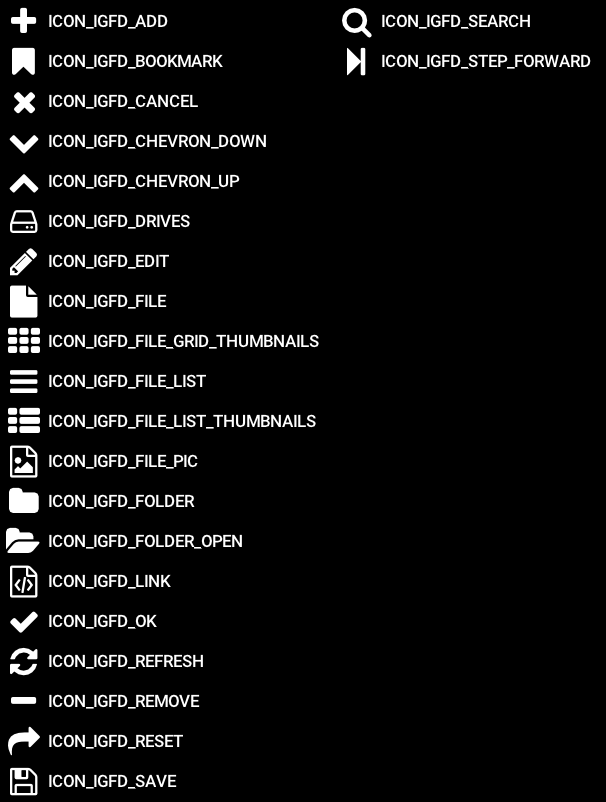
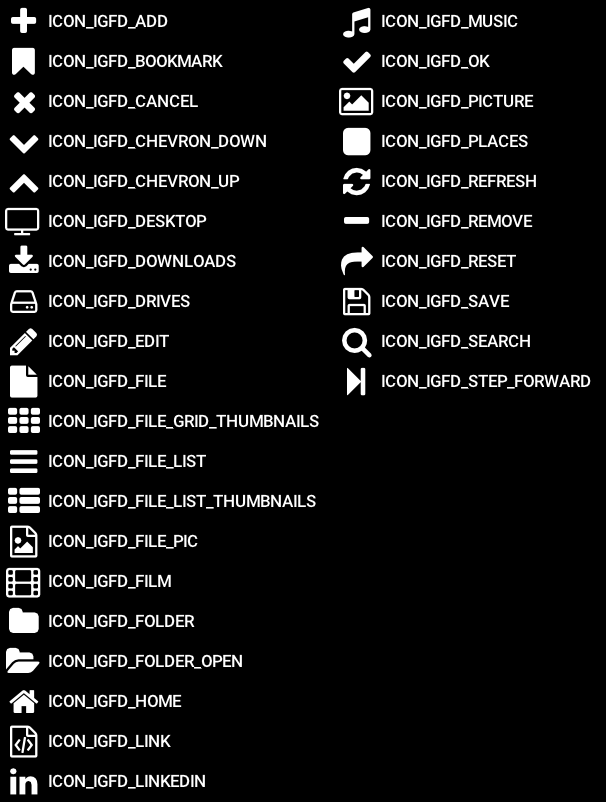
[ADD] : add a Places System who is extending the current Bookamarks mode to know places, quick access, favorites, devices, etc..

diff --git a/CustomFont.cpp b/CustomFont.cpp
@@ -1,33 +1,44 @@
 #include "CustomFont.h"
 
-static const char IGFD_compressed_data_base85[3950+1] = 
-    "7])#######Dl_0_'/###O@?>#+lQS%Ql#v#X^@iFm,6TH$&(##/i(##[[S=B7Rm.L:^Ee-]br-$KQshF=I&##'h$##<L]w',>p0FSQM:L3/Uw02)[w'o;<RDQjUw#IPH_&8Jq-$Mu@['"
-    "@c9*NbUD_&UKo-$fZIkESHP_?Xq&##a+(##n9?0Fb$'3^>Z%F7Acg--&OMkOQ&###U::d?odPirc[4gL_=$##+Yk>3;IGF%:=1?%+$-tL]em##PPL@-#VGs-Vi[+M4:T/Lr.TV-vtXR*"
-    "?=th#@fNX($W3&+5OOX(uue+MQxSfLaH<mL(x$m/mEexFTP'##>Uu)NuDOd$nGZ(%/@$Z$3.5F%>Lqk+GN=_/)@v;%V8C5M$@,gL1F5gL$@,gLKoG8.'5>##<F`p&C./YcZwKv-$;d'&"
-    "?dd.qjm$0qT4Q3qA^:7q'>b9qObm;qn&nCq,R[SqOim4vn/-F.PjoF.m7VQIB5KG.?(5k#iYkr-EX:p/'cYS.$-_'#RAB;-d+$L-Swxe%P]UV$0u68%47no%8ONP&<h/2'@*gi'DBGJ("
-    "HZ(,)Ls_c).fP7ERrD_&Q7)##pU(##Djo-$:H+##F&'##S:m-$O=)##@Sl-$7J(##)ak-$WQo-$&U79&G(35&?).m/:3NP&r:jl&<?u`3eE/2'hNJM'jLJM'na+/(9/5##9:m`-kj/I$"
-    "n&&)#Xn@X-jbtM(pSLnuw);GV_u.Dt?ba@tEfJ&#QTV'#T%J/LZ:;8%rtJfLXu5;-Su4;-bkh8.E7TfL7.SY.n,Ih(Lv_>$u7XI)E$X=$FR]tuVbxX#KF-,$6+hF4Ns5c]5]4xt(l0o`"
-    "HG]Y,V=SqFs-*#/>BxY-2>6=1SS@n3BQQY>tQZ50K;6xtBE3muOYE6j1#'58SM?o'r)#,2]V5D<G.H]F2[ZuP%2G>#kTSf-S9w0#k5e4vgYq3vH+6AM3(.m//tTB#6k9'#l1^gLT,pY-"
-    "->pH7TGl0-lfn0-m:-nkQjR)vt=X4'FK5.8hjkA#.2T>-T5T>-.Z)/V6*;Ga,n8f0)5###u/f##@P+58FT`>nhvYK7x(f+MfN#Vd:E`48:P$$$bl9'#])UK*O*oMMqAh1TdFi(EPpkr7"
-    "Hp`Js$T-##[YEt$bcx5#->Ha2F(@8%&Y@C#i_Z=7No^I*7nJ,2&f^DNGM1eN47DcNF<w%,(o'B#`//;MJ)Nfq57x:.3.v(EL.o&,pRpq#:a^)4=_)AF)bBg(2o58.[[5K)[(Ls-/t/I$"
-    "OEU*@hPt>P(&cI)9r_V$6^`A.,k`Cjj&nA#Y7,HM+@75/8e9:)K4j'MdZwe-fcBN,g6'@9<5jD3YdUV$sRk&#l,>>#@D5##]o;T/,oK9/)$fF4k&B.*-7T^,k(TF4^.RM0Rq@.*bZ'u$"
-    "cJF/M;`6<.*M4gL;ngo0TAOZ6W.PV-RVx_4QmuX$KOj`ub>(6RTcZULbR39/oBfU+-p9x9SP>bnQ5&X%pbO-)&-g[us_.u-=^7>N8$EG'i_7MTv+qM#ReBtLg@RxktpqbrUv?rC*+8C8"
-    "i&X1)e61nLx-$O*%@h-Ml=DX-xv@=(`()?#B8WeFW-u?-vOlo.$&>uuu]iQjhx###6T&],vQnW_$Dh8.w-<?#PE3j1j.dx3stb@$RieX-PbU/)9,d]u*l0[.p2rE3*cA/L>%jx-q-U&5"
-    "YZbA#Dc$a-1F-Z$3(m<-2&&b-cjHwB)j9e$*fF.#=F.%#bWt&#M3>V/2T/i)HrUv-F^?d))2pb4N*sKG'L/@#H`G>#x]5.3Z_[@#1N.Q@2eV5*k+)ul=^hA4+;wA4-l2%bt_NPoN%g1B"
-    "Yb]+42bMjLXF8:La,3.M58+**]kp)4JP`,u2U`k#Z-qDX;BgF/['9'#/W%RNV]UV$l(+&#g9e5/l)qH*c4oL(u3YD#=@)ns>4vr-Fdsw$/_?C+ohAYcqT@E+iW0KMes=p%%<TB+eq]o&"
-    "x$1v%Y_L=M/ifbMat0AXt&q`MYid##kJ,/19mb;-1u$+5&b+X$xIkI)ig'u$ikkj1./.&4maJX-Wh3a%BNg@#<:%[u;C]:/F^BBTXTi>.MvUk'R3Tm&?`I34s'o7l=E^[#JN$q3JDDW-"
-    "ex,##/snC>+[Ch4DZVs%am^q%hh)?#51&>Nd:1##aJ^'/YdYEnVKpdm$7[0#G,>>#b1=Z-)7(dMjCCv-gc``36SqcNKQL,3L1O058b4-5mS4'5841'5%J/GV/1:B#'at%$q^DIM=X0DM"
-    "3)^fL6)0/Ldbb(NRdimM-a4o7qPa>$cMDX:W<=&5R^i'#C.0u$CGF&#]rgo.NV9h&h0`.3f`aI)wuj=)V_TLpB9o*%j70.)@*4F%C6pre.3^gL8u+.)$Ja1)1K2.)/us'4`1iv?[x[AX"
-    ">DQk=&2SfL>4-m'3HBMu2:nmL3Bi-McE;,)odGb@L.N'MU@9C-]?KoLDulhL#w5D-#TVA./JE/Lq>eA#/'+Q8l]9C,8&B.*5XKb@@hsPM2.VfLFI8GVRmDGV+:2X-*<dq)mAn9M3>6##"
-    "#+d;%$9P-4avK'#?3B:%V::8.mNv)4#Vpr6xXl<:-%eX-Si(?#LR(*>=:mp1J4@]u2NVE87mV)4lKxnLI_lS7#e$YYd>h>fjqBj$S>1T2&idh#WNc]u,VoH+/^(B#dS3N0_HDbA:lD)%"
-    "rNHAOYMYGMDtJfLXqd##Q3=&#d72mLvG(u$+dfF4<BPF%MPEb3:]Me.d(4I)(P;e.)_K#$^n;#MjXGp%jDJeM20P.)'9_-2[x):8,VjfLQJa0V*#4o7dD24'^bO-)GX3/U@@%P'9/8b*"
-    ";XmGA9Gw;8i=I`(sZhM'8A]?cof-6M>Awx-tS<GMRoS+MWWB@#WG9J'P@)?uNUYI8#-EE#[Yw_#;R,<8+b?:3LljD3Yr@/LGVOV-D'%29M#_B#4ZCD3S)&T/29orNwJ1N(e]YD4Oea,*"
-    "-4h0,>4vr-4Hc#6<-C]$N>.U%))^Y,SEW-$$;(v#B%C7&D$KH2;YvAupvh4L]/8$$n=x_uGM1-Mh?^;-0@;=->?DiL9El'0dWe`*>(t.L&A3/LnQE?#HnMR8HeFatBUj'0i%s^#X-L4."
-    "mV-6M3:#gL=E5',2F_oA&>uu#R%=cMEjV&#[S@^$Ki@@-s3emLjnU6v0w)-vjKJ_MYF$##iBBY$@Y6iL*JqY-M=#/?'.^.?\?@i%aI%'0%KGY##CoRe*5nOJ(h5.)*jr/+*dg0aYctH##"
-    "6^TlS;4T=YPuG;-K6^/N4i`>$agNe'Qk[X'ep.'5ab5'5uX(T73OWV$Pi[+MT([##PG<A+q^EM0Ue$##`q-q$V2Cv-b%w20tt?X-BL75/#(KU)N0;hLr75c4br9s-;va.3exLG`^U;4F"
-    "RcG$0%IFL#[/;Zu[$^iB841'5Po7/Lb2=CLIw[%=En$SV8J$1,(dWIL=#gr/agM%O1Q;>5@R<=$/rVB#kwF>#euita$X82LhuA&GBihNXcIIa4u<'8@Pc&6/-@XA#R4r?#fgGj'x%MT/"
-    "ObE]-QtfM'-Wgf16HSP/kK(E#_3rhLE)t1)ter0,7D?whd]g^%11uU&FIJa^d/Gb%QIsYlG4`;$]Ya7Q.sc7Iw<6AO2CL97I)Ta#?u//LEJS8/^wJ/rD,?V%O)8'.<aMhLmME.h>x4Au"
-    "%<dD-$EmD-.]GW-sROwBG/5##iGIg:;,>>#*AY>#.Ml>#2Y(?#6f:?#:rL?#>(`?#B4r?#F@.@#JL@@#NXR@#W<Bu$%QcdGjr_hCi'-[Av)/:C*oIbHnQ`=BG)boM0$%oDT#0V)uMX]F"
-    "YNM<Br,9kEix@qC,dKSDm*;iF%jcdG]p[9C+1#wGxT;]A8X0DIaZ=b$cf3PCaT79CfxBVC1#lVC_S@UC?SvLFu@jx&D$L3C)Z_(%u2J:C6sXdM)6RgFn#_(%/xn'ItR/vGj;_$&SEb3O"
-    ")Bl'&3,R['3pitBlq>LF9n8AtHKCw/";
+static const char IGFD_compressed_data_base85[5530+1] = 
+    "7])#######ox2J2'/###O@?>#+lQS%Ql#v#X^@iFmniNOK<(##cB*##P;V=B?EF`N:^Ee-]br-$KQshF>RA>#c8)##Go`w'LIq0FRLJCLM(Vw02)[w'Cf=RDQjUw#,JD_&8Jq-$Mu@['"
+    "b3K'=-gK_&UKo-$TZIkEBfuN;h,QT16S###t;E0FCMD75[8vE7M3o-$^GFkOR&###U::d?odPirVEL8eVNm&#+Yk>3.r9#v;/9m$W;Mt-].=GMM%g+MPXZ##/C2=-r.TV-vtXR*?=th#"
+    "M7OX(,p3&+5OOX(uue+MQxSfLaH<mL$ScS.mEexF,r:T.TP'##3YjfL0b1dMxMOd$nGZ(%@Y6iLMhrr$3L$Z$O+/F.++_>$BUP&#b+:1MPbd##Yev-$m5tw9Km(F.@I)W%vC58.'5>##"
+    "ejap&&)#YuZ^[21$;d'&Xxj/qeNL/q'Hn0q?;02qr?85qA^:7q'>b9qObm;qp2*DqDR[SqBHa%r:*>>#BA[fLa,#<Qx#Q9q4#^sLq05SP38I0XJ@-##U&BkL$lR(#d>(E4@.OY5[u;v6"
+    "w7B;-6s:P-&i9j%a]UV$0u68%47no%8ONP&<h/2'@*gi'DBGJ(HZ(,)Ls_c)P5@D*TMw%+XfW]+](9>,Zn$iPRrD_&nL2U;2l$##*/###qS+##k;+##Hll-$l$*##g)+##'i(##4'o-$"
+    "66]p&WD/2'P,^5'5s:T.tNJM'w5T;-gWjfLT:K$5`k'hL:mQn&^V=0h2$D$YBd4R*AqQ;#/h'sL*I#9#]?%0#8e/5#M5;7#@rt.#<nWt$AVfQa_DD]-j2dJ(7R6V#>GZ)G;-Wc$`Fv(%"
+    "@q]9V],i^ori[+MpjB/LNO$##WMVO'x[R_#vcMD3-RFX$#G`e3sc@A4Ov:u$7^v6D<6jw8QK*N1psxXPS]Y^,-iE0(Sbd;-@N:.<Nguk0_Cj*%524&++qacO&bguc+XE?#7oGlLQPn*."
+    "V%-tL?:xiLADa$#tNj-$e*'u$;)MB#@e%?5*3?/(Zl(?-e:Xe)UZ-)*KpR@tTGS@tIEJYGX._h3&1$YYBm@iug@>iF=Ol>#ZGhc`h_pu>B[)I-'Y0dMKrsILvLEB#KU3f-'75nu?YWh]"
+    "FY$'#[1JfLQPP,M:Ztm'r)#,2]V5D<G.H]F2[ZuPs2n7[^vG&4TMrB#jBFA#4(XD#;n5hUuSQJ(m>:Z-rM[L(Lov[-q&FYP;r&hU/4)D.0['u$`O#9/)$fF4R&6-*:wDE+'cPpSPUH##"
+    "bi#>#?bC#$s1f%uhgdX1bwpL5%BL_&pBIn=r2.?8)K+<A`R)T77;7gN^T6MT6V=AuBe9[Kvg]e$HHJ+.(ZqC&IQ]+.rfpA9:<ni_>hCH-Qmov05Zu##k<1?%S6[0#i8(:.%,,##jNJf-"
+    "S9w0#k5e4vgYq3vH+6AM3(.m//tTB#6k9'#l1^gLT,pY-->pH7TGl0-lfn0-m:-nkQjR)vt=X4'FK5.8hjkA#.2T>-T5T>-.Z)/V6*;Ga'@[1/)5###HIZ8peSm.B(I>^-V9w0#f5e4v"
+    "p30dkqqR`a.Anx4B5'],p0o*7<pWaAFMA@808p>IQ@4ILsmToIj6_DNEY*)*+mUL)81[s$wkH>#iE(E#VA@r%Mep$-#b?1,G2J1,mQOhuvne.Mv?75/Huiw'6`?$=VC]&,EH*7M:9s%,"
+    ":7QVQS#](#=i'+v-q3=$.Mb&#k:sk'tc(T/(;^;-PK2a-PB@`A%tB:%D<:g(#Te]u^Qf$N`:75/F^/:)ojBB#XRVX-?2[q)k+N&,$NSfMeF*n1%/5##BYqr$=E>##[([79PYbA#9h$`&"
+    "G2G>#3rf*%KA139=AGb%1D[,t&_U6v?2l'&L&,##M**-vh9j'M3SafL`L>87f?@>#qM1]bfWhFrQNs-$7c?c;cX'crf)q.rR>5R*b^<9&ka;;-VXm-$Ils05Z:r$#uAt$M2E%IM4qC:#"
+    "1AlY#?TSGNxxSfL4,5cM?A.5/ubQxk+/b>$Mk(-jG@6uuqX:i^Oa4F%q3n0#F;to7/.C%t&8YY#w0Vf:6ZQb+/Zuu>=r###>bo%4(%1xB::,ip(VBcD.HfER/QB;$mrf(#Zu^##9kfi'"
+    "0fJV6&(Gd30d%H)O([F%ZS,R(;hL+*bhZV--3.)*S(Ls-SRUa4KfM2:?L;h)77t[$N'^:/V_TfL^UiS%X*hr/j(0'5VZe1gg81k5P#u,0'&L_(>H]m(UDOo7995O0eH@E+emo7/JSFEX"
+    "HC)159i>;-J,%15P[KfNTQD15'TXB,3[,.)+4850&CfU+3-g[uJnmp-d98q`17[0#9%T*#?3B:%isAv-&O]s$X-;i%pnr?#RtC.3j85L#`J))3dX^g/i?85/vBo8%er5p0TAOZ6W.PV-"
+    "RVx_4QmuX$KOj`ub>(6RTcZULpV9K-bW+82gu%t]:U.g9wCo)*sK#(+hu;E+&.sbR_l511Ladq7(Q6,)6i8FE4#Po0bM9Z#uW;l]7em9)oKK$^x`b'OMk8hGn2R.)#GOo7o$Ed3%^*rM"
+    "o&Y9%)[[c;QIt<1q3n0#X&###kbU##pMwx+VB')3oAic)x.bHZ`f)T/a7+gL&Y7C#v($lLbjb@$RieX-PbU/)9,d]u*l0[.p2rE3*cA/L>%jx-q-U&5YZbA#Dc$a-1F-Z$3(m<-2&&b-"
+    "cjHwBWVW/LZ:;8%O]SY,=t9U)8cLs-;va.36RG)4ER;?#woSgLE=EH*fV+w5CM&/LkKb.G3U]Lt0QlMV'/5##SeO-)4]'T7_&<;RcEfW-8)c$0x5:%bRnV[M=c>;-n+SFM&O]<$v#M?-"
+    "Us&<A3x]`asV@_S?NLPoDGur$PAw%+H=$##TIF<%,ET@#NDn;%SiWI)le4D#MHU9V.hLG)lsY]43Y7%-Q37DEF@X8LggT7&h^IP%86E`#*2*D#+JUnuDbn2/%F;KX._g:/1J^'/61[-$"
+    "-xf'/mZT:%TRp/1JP`,u2U`k#Z-qDX;BgF/['9'#$&###RlK##qV<>,@9Bu$oUFb326.)*BL*N0Rq@.*dZ'u$I6*jLqZo8%B:)D+^%#/&QZLt%/wXvGbgBY$sh@-)of16&bcu7/42NIL"
+    "(%U^#2$v##-Ax#/E`d`ad9vvI'IG,MB)Vv-`fWI)$M'f)-<Tv-Lq[P/qC,c4bRqkLSSG-3BPc##H$1,)lT1fB,jBYB9./W$`sPn&HhRw#'Stk#(1bd3;Duu#E'h'/7WAE+O.1w,p8QSV"
+    "`E3$%sMwH)$eWu-D^%DX[G&8Remo7/,w/RNVKpdm$7[0#G,>>#_uwY-xlRZ-TekD#121p$Iq:]-F`A/L8Sb1Bm79+08&,w/hrVB#$K.q.%H3'5DdDs)>'VHmh+0^#8]k#$^)V$#SYC@B"
+    "s&V`tW_gC-sEENMi6QD-5AoN1=Fbc)IR_;-7`###60D3;@M@A4.6.)*x4XPX&$b?u*Ql)M]%g=)L-#)M'D#W-$7I_&R%n0)$ix'41;MD)co&/):T#D/eOr4%<YlDM9xZm86.Vjr&$H`-"
+    "XJo?92HK/)(vE^#%F-IM&6,GicVr9;Ow]0>Der6*0Ke0>vX&I?'h8e$Er,D-N,ER'<VYV-GfJ/L@i6o7:fKb@'x_5/Q1wPMIR0cMmbR`aRLb>-9jW^-R3n0#%3coL^6'%#N,>>#MhSM'"
+    "52Cv-?D,c4A]DD3mMWB#,5Rv$g&?a36s&HMeANv>s#V&1iJ&%bE2ZA#-.^g1j;R)4443%b7RU`u`Kk(NHbeV@gJS'-BWcP3m?+#-VaDuL:`WY5kEaau^=lJ(_24J-KxeQ-):Im/9(V$#"
+    "lpB'#.::t%h/oj2Y%@+<FI0Z-3R-b[8lU^$B)t1)O$pH*adP/(HZ%12ARj-$h4-/V1(bT%xl`@$$F/a*/PDh'J3no[Uo5o7DAS?cvJm%$+99T([t&2BJODL5nctW#Aj*.)sA'%MS>`1p"
+    "%bpK(i`2iK.K+<AZ4QS7$o45AhXv,4:O*r8dGAx$S6[0#G?O&#DoA*#_>QJ(PGpkL'(MB#/T01YP6;hLqS&J3LR(f)9*SY-xN44M3RXD#'1;p72$[p.Z9OA#RcB##Oi./LlA)ZuTBqn'"
+    "B]7%b/WM<LrFcS7XOtILd9b<UxX'^#)J/Dt]il3++^tpAu_L%,w$[gu5[-['#**&+(a%0<O4h=#%H3'50S6##l9f/)m`):)t1@k=8?#]u3i8-#Z]e^$U@;m'1rTxTW.p=YO*o>IFca,$"
+    "_WAM$8&H<-YZ&v.&,###f0c-6=:n(<?GtWoRIG,M8A?uu5kBYt[Xsm/iBBY$ile%#RXo.`R$U&v)BI&#)QnA#f9J50&,###/_`##vvf'&cB%l`(CuM(V@WmhfifF4([PJ('rN4:<ODh)"
+    "x.&1(4V5g)fiVD3lk'E<7xkQ#?7f->CpQ6Dm#)vP,B/c>-]fR&2eV>#qEGb#fGH3D7+66$)VT#$*@WO:&MGn:l_E@kS1&g('O]K3JMTFiPT_.q4;UJ-98axl/aTs-V7+gL,Xsf1<,>>#"
+    "cNf@#j;rG)$&:s7=4<@$Hni?#+?2?u.'s^#;i?98*Z;A-VvwFiQL:cD:;2p/awd.0mI4w$oCx(#n&-&Nae&%#aKb&#W>gkLwuK`$BG`Q/tt?X-BL75/9uov-[TAX-C0p,2R^g@#NEZd3"
+    "aIcI))oio/Jgv20H33-,+VxA&W@1,'<Zd1B,o$>#OAt=#;4w.L.(j3GS%<G$L&$w/YGNRN9W^o8)2wo&eB%Btr)mx4=mgQt9QLnuZD#730Ce;-mbvL-n/9s$ZIIa4u<'8@Pc&6/-@XA#"
+    "R4r?#fgGj'x%MT/ObE]-QtfM'-Wgf16HSP/kK(E#_3rhLE)t1)ter0,7D?whd]g^%11uU&FIJa^d/Gb%QIsYlG4`;$]Ya7Q.sc7Iw<6AO2CL97I)Ta#?u//LEJS8/^wJ/rD,?V%O)8'."
+    "<aMhLmME.h>x4Au%<dD-$EmD-.]GW-sROwBR/5##UjxE%u8[0#c<UF=#wr_ZHb`t-MHLfL:WhLp'Wp$bZhoLp7rWh#n'02'wY12'b7j.L8kN,WU';V-62MpACEcf(8[U'#hpi8v)Tq3v"
+    "5#r&NrMdf(=calAA;4V-/wtCWGe]9AVQ)T7o<#5A^_R`a>_en*4#s%u*;Gc-0'cw'V9dxuSA5_A10R`Act3gNnnt;.o>*584B4_At>I&#Bf4^#6u9;-?Pki%wJ(v#.c_V$2%@8%6=wo%"
+    ":UWP&>n82'B0pi'FHPJ(Ja1,)N#ic)R;ID*VS*&+Zla]+_.B>,cF#v,)?4,Hj.AvGk#fuB`MBnD>)YhLrq*[Av)/:C*oIbHnQ`=BG)boM0$%oDT#0V)6>Y]FYNM<Br,9kEm*Z1Ff1)hF"
+    ":>vhFdGQD%)p:eGm;__%%/$PE%m>PEhoitB:sFVCZf3nD6n9GHjN`pC3d]>B,_%gL]GgEHP,V9CobT0F#E$@&v@I'I(h)]AG/CEN0#oY/lq>lEki`]&F9:VA,gpKFjb^oDw/UG$)NkVC"
+    "hoM=Bi]2&&:Z=kX%($oDC[xNF`YX<h6/xGMcEII-@ZgO0hnL*H8lV.G(PUV$3+a<+L%###";
 

diff --git a/main.cpp b/main.cpp
@@ -20,6 +20,7 @@
 
 #if defined(__WIN32__) || defined(WIN32) || defined(_WIN32) || defined(__WIN64__) || defined(WIN64) || defined(_WIN64) || defined(_MSC_VER)
 #define stat _stat
+#include <ShlObj.h> // for get known folders
 #else  // UNIX
 #include <sys/types.h>
 #include <sys/stat.h>
@@ -483,36 +484,69 @@ int main(int, char**) {
     IGFD_SetFileStyle(cfileDialog, IGFD_FileStyleByFullName, "doc", ImVec4(0.9f, 0.2f, 0.0f, 0.9f), ICON_IGFD_FILE_PIC, nullptr);
     IGFD_SetFileStyle(cfileDialog, IGFD_FileStyleByTypeDir | IGFD_FileStyleByContainedInFullName, ".git", ImVec4(0.9f, 0.2f, 0.0f, 0.9f), ICON_IGFD_BOOKMARK, nullptr);
 
-#ifdef USE_BOOKMARK
-    // load bookmarks
-    std::ifstream docFile_1("bookmarks_1.conf", std::ios::in);
+#ifdef USE_PLACES_FEATURE
+    // load place
+    std::ifstream docFile_1("places_1.conf", std::ios::in);
     if (docFile_1.is_open()) {
         std::stringstream strStream;
         strStream << docFile_1.rdbuf();  // read the file
-        ImGuiFileDialog::Instance()->DeserializeBookmarks(strStream.str());
+        ImGuiFileDialog::Instance()->DeserializePlaces(strStream.str());
         docFile_1.close();
     }
 
-    std::ifstream docFile_2("bookmarks_2.conf", std::ios::in);
+    std::ifstream docFile_2("places_2.conf", std::ios::in);
     if (docFile_2.is_open()) {
         std::stringstream strStream;
         strStream << docFile_2.rdbuf();  // read the file
-        fileDialog2.DeserializeBookmarks(strStream.str());
+        fileDialog2.DeserializePlaces(strStream.str());
         docFile_2.close();
     }
 
     // c interface
-    std::ifstream docFile_c("bookmarks_c.conf", std::ios::in);
+    std::ifstream docFile_c("places_c.conf", std::ios::in);
     if (docFile_c.is_open()) {
         std::stringstream strStream;
         strStream << docFile_c.rdbuf();  // read the file
-        IGFD_DeserializeBookmarks(cfileDialog, strStream.str().c_str());
+        IGFD_DeserializePlaces(cfileDialog, strStream.str().c_str());
         docFile_c.close();
     }
 
-    // add bookmark by code (why ? because we can :-) )
-    ImGuiFileDialog::Instance()->AddBookmark("Current Dir", ".");
+    // add places :
+    ImGuiFileDialog::Instance()->AddPlacesGroup("Places", 1, false);
+
+    // Places :
+    auto places_ptr = ImGuiFileDialog::Instance()->GetPlacesGroupPtr("Places");
+    if (places_ptr != nullptr) {
+#if defined(__WIN32__) || defined(WIN32) || defined(_WIN32) || defined(__WIN64__) || defined(WIN64) || defined(_WIN64) || defined(_MSC_VER)
+#define addKnownFolderAsPlace(knownFolder, folderLabel, folderIcon)                         \
+    {                                                                                       \
+        PWSTR path = NULL;                                                                  \
+        HRESULT hr = SHGetKnownFolderPath(knownFolder, 0, NULL, &path);                     \
+        if (SUCCEEDED(hr)) {                                                                \
+            IGFD::FileStyle style;                                                          \
+            style.icon = folderIcon;                                                        \
+            places_ptr->AddPlace(folderLabel, IGFD::Utils::UTF8Encode(path), false, style); \
+        }                                                                                   \
+        CoTaskMemFree(path);                                                                \
+    }
+        addKnownFolderAsPlace(FOLDERID_Desktop, "Desktop", ICON_IGFD_DESKTOP)
+        addKnownFolderAsPlace(FOLDERID_Startup, "Startup", ICON_IGFD_HOME)
+        addKnownFolderAsPlace(FOLDERID_Downloads, "Downloads", ICON_IGFD_DOWNLOADS)
+        addKnownFolderAsPlace(FOLDERID_Pictures, "Pictures", ICON_IGFD_PICTURE)
+        addKnownFolderAsPlace(FOLDERID_Music, "Music", ICON_IGFD_MUSIC)
+        addKnownFolderAsPlace(FOLDERID_Videos, "Videos", ICON_IGFD_FILM)
+
+#undef addKnownFolderAsPlace
+#else
 #endif
+        places_ptr = nullptr;
+    }
+
+    // add place by code (why ? because we can :-) )
+    //ImGuiFileDialog->
+    // todo : do the code
+    //ImGuiFileDialog::Instance()->AddPlace("Current Dir", ".");
+#endif // USE_PLACES_FEATURE
 
     static std::string filePathName;
     static std::string filePath;
@@ -598,10 +632,10 @@ int main(int, char**) {
 #ifdef USE_THUMBNAILS
                     RadioButtonLabeled_BitWize<ImGuiFileDialogFlags>("Disable thumbnails mode", "Disable thumbnails display in dialo", &flags, ImGuiFileDialogFlags_DisableThumbnailMode);
 #endif  // USE_THUMBNAILS
-#ifdef USE_BOOKMARK
+#ifdef USE_PLACES_FEATURE
                     ImGui::SameLine();
-                    RadioButtonLabeled_BitWize<ImGuiFileDialogFlags>("Disable bookmark mode", "Disable bookmark display in dialo", &flags, ImGuiFileDialogFlags_DisableBookmarkMode);
-#endif  // USE_BOOKMARK
+                    RadioButtonLabeled_BitWize<ImGuiFileDialogFlags>("Disable place mode", "Disable place display in dialo", &flags, ImGuiFileDialogFlags_DisablePlaceMode);
+#endif  // USE_PLACES_FEATURE
 
                     ImGui::Text("Hide Column by default : (saved in imgui.ini, \n\tso defined when the imgui.ini is not existing)");
                     RadioButtonLabeled_BitWize<ImGuiFileDialogFlags>("Hide Column Type", "Hide Column file type by default", &flags, ImGuiFileDialogFlags_HideColumnType);
@@ -842,9 +876,9 @@ int main(int, char**) {
                 IGFD::FileDialogConfig config;
                 config.countSelectionMax = -1;
                 config.flags             = ImGuiFileDialogFlags_NoDialog |  // permit the embedded, because no frame is used
-#ifdef USE_BOOKMARK
-                               ImGuiFileDialogFlags_DisableBookmarkMode | // bookmark mode
-#endif                                                                              // USE_BOOKMARK
+#ifdef USE_PLACES_FEATURE
+                               ImGuiFileDialogFlags_DisablePlaceMode | // place mode
+#endif                                                                              // USE_PLACES_FEATURE
                                ImGuiFileDialogFlags_DisableCreateDirectoryButton |  // no directory creation button
                                ImGuiFileDialogFlags_ReadOnlyFileNameField;          // file name filed is read only
                 fileDialogEmbedded3.OpenDialog("embedded", "Select File", ".*", config);
@@ -1030,26 +1064,27 @@ int main(int, char**) {
         glfwSwapBuffers(window);
     }
 
-#ifdef USE_BOOKMARK
-    // remove bookmark
-    ImGuiFileDialog::Instance()->RemoveBookmark("Current Dir");
+#ifdef USE_PLACES_FEATURE
+    // remove place
+    // todo : do the code
+    //ImGuiFileDialog::Instance()->RemovePlace("Current Dir");
 
-    // save bookmarks dialog 1
-    std::ofstream configFileWriter_1("bookmarks_1.conf", std::ios::out);
+    // save place dialog 1
+    std::ofstream configFileWriter_1("places_1.conf", std::ios::out);
     if (!configFileWriter_1.bad()) {
-        configFileWriter_1 << ImGuiFileDialog::Instance()->SerializeBookmarks();
+        configFileWriter_1 << ImGuiFileDialog::Instance()->SerializePlaces();
         configFileWriter_1.close();
     }
-    // save bookmarks dialog 2
-    std::ofstream configFileWriter_2("bookmarks_2.conf", std::ios::out);
+    // save place dialog 2
+    std::ofstream configFileWriter_2("places_2.conf", std::ios::out);
     if (!configFileWriter_2.bad()) {
-        configFileWriter_2 << fileDialog2.SerializeBookmarks();
+        configFileWriter_2 << fileDialog2.SerializePlaces();
         configFileWriter_2.close();
     }
-    // save bookmarks dialog c interface
-    std::ofstream configFileWriter_c("bookmarks_c.conf", std::ios::out);
+    // save place dialog c interface
+    std::ofstream configFileWriter_c("places_c.conf", std::ios::out);
     if (!configFileWriter_c.bad()) {
-        char* s = IGFD_SerializeBookmarks(cfileDialog, true);
+        char* s = IGFD_SerializePlaces(cfileDialog, true);
         if (s) {
             configFileWriter_c << std::string(s);
             configFileWriter_c.close();

diff --git a/CustomFont.h b/CustomFont.h
@@ -5,16 +5,18 @@
 #pragma once
 
 #define FONT_ICON_BUFFER_NAME_IGFD IGFD_compressed_data_base85
-#define FONT_ICON_BUFFER_SIZE_IGFD 0xf6e
+#define FONT_ICON_BUFFER_SIZE_IGFD 0x159a
 
-#define ICON_MIN_IGFD 0xf002
-#define ICON_MAX_IGFD 0xf1c9
+#define ICON_MIN_IGFD 0xf001
+#define ICON_MAX_IGFD 0xf26c
 
 #define ICON_IGFD_ADD u8"\uf067"
 #define ICON_IGFD_BOOKMARK u8"\uf02e"
 #define ICON_IGFD_CANCEL u8"\uf00d"
 #define ICON_IGFD_CHEVRON_DOWN u8"\uf078"
 #define ICON_IGFD_CHEVRON_UP u8"\uf077"
+#define ICON_IGFD_DESKTOP u8"\uf26c"
+#define ICON_IGFD_DOWNLOADS u8"\uf019"
 #define ICON_IGFD_DRIVES u8"\uf0a0"
 #define ICON_IGFD_EDIT u8"\uf040"
 #define ICON_IGFD_FILE u8"\uf15b"
@@ -22,10 +24,16 @@
 #define ICON_IGFD_FILE_LIST u8"\uf0c9"
 #define ICON_IGFD_FILE_LIST_THUMBNAILS u8"\uf00b"
 #define ICON_IGFD_FILE_PIC u8"\uf1c5"
+#define ICON_IGFD_FILM u8"\uf008"
 #define ICON_IGFD_FOLDER u8"\uf07b"
 #define ICON_IGFD_FOLDER_OPEN u8"\uf07c"
+#define ICON_IGFD_HOME u8"\uf015"
 #define ICON_IGFD_LINK u8"\uf1c9"
+#define ICON_IGFD_LINKEDIN u8"\uf0e1"
+#define ICON_IGFD_MUSIC u8"\uf001"
 #define ICON_IGFD_OK u8"\uf00c"
+#define ICON_IGFD_PICTURE u8"\uf03e"
+#define ICON_IGFD_PLACES u8"\uf0c8"
 #define ICON_IGFD_REFRESH u8"\uf021"
 #define ICON_IGFD_REMOVE u8"\uf068"
 #define ICON_IGFD_RESET u8"\uf064"

diff --git a/CustomImGuiFileDialogConfig.h b/CustomImGuiFileDialogConfig.h
@@ -109,10 +109,18 @@
 //#define tableHeaderFileSizeString " Size"
 //#define tableHeaderFileDateString " Date"
 
-#define USE_BOOKMARK
-//#define bookmarkPaneWith 150.0f
+#define USE_PLACES_FEATURE
+//#define placesPaneWith 150.0f
 //#define IMGUI_TOGGLE_BUTTON ToggleButton
-#define bookmarksButtonString ICON_IGFD_BOOKMARK
-//#define bookmarksButtonHelpString "bookmark"
-#define addBookmarkButtonString ICON_IGFD_ADD
-#define removeBookmarkButtonString ICON_IGFD_REMOVE
+#define placesButtonString ICON_IGFD_PLACES
+//#define placesButtonHelpString "places"
+#define addPlaceButtonString ICON_IGFD_ADD
+#define removePlaceButtonString ICON_IGFD_REMOVE
+
+#define USE_PLACES_BOOKMARKS
+#define PLACE_BOOKMARKS_NAME "Bookmarks"
+#define PLACE_BOOKMARKS_DISPLAY_ORDER 0 // to the first
+
+#define USE_PLACES_DEVICES
+#define PLACE_DEVICES_NAME "Devices"
+#define PLACE_DEVICES_DISPLAY_ORDER 10 // to the end

diff --git a/FileSystemBoost.hpp b/FileSystemBoost.hpp
@@ -83,8 +83,8 @@ public:
         return res;
     }
 
-    std::vector<std::pair<std::string, std::string>> GetDevicesList() override {
-        std::vector<std::pair<std::string, std::string>> res;
+    std::vector<IGFD::PathDisplayedName> GetDevicesList() override {
+        std::vector<IGFD::PathDisplayedName> res;
 #ifdef _IGFD_WIN_
         const DWORD mydrives = 2048;
         char lpBuffer[2048];
@@ -96,7 +96,7 @@ public:
             IGFD::Utils::ReplaceString(var, "\\", "");
             auto arr = IGFD::Utils::SplitStringToVector(var, '\0', false);
             wchar_t szVolumeName[2048];
-            std::pair<std::string, std::string> path_name;
+            IGFD::PathDisplayedName path_name;
             for (auto& a : arr) {
                 path_name.first = a;
                 path_name.second.clear();
